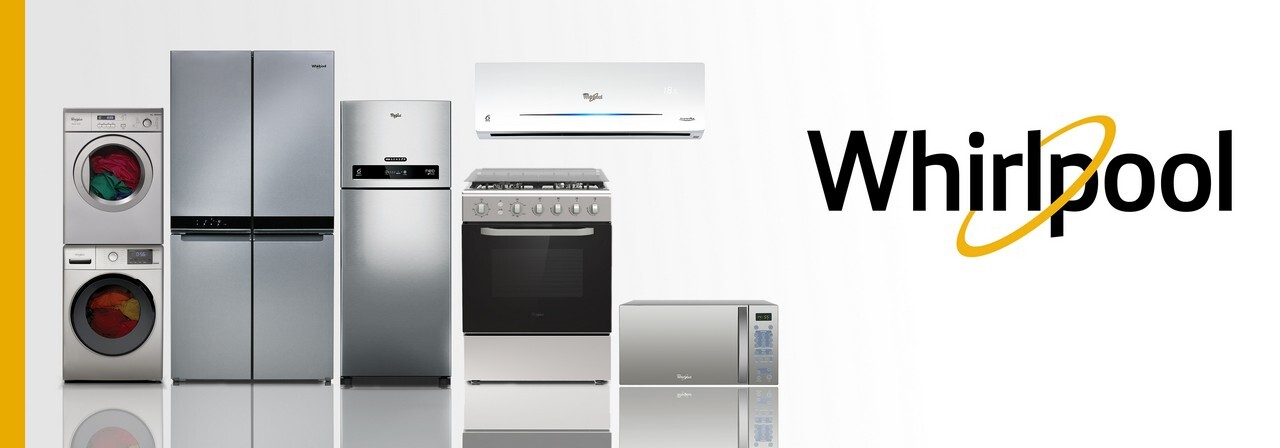
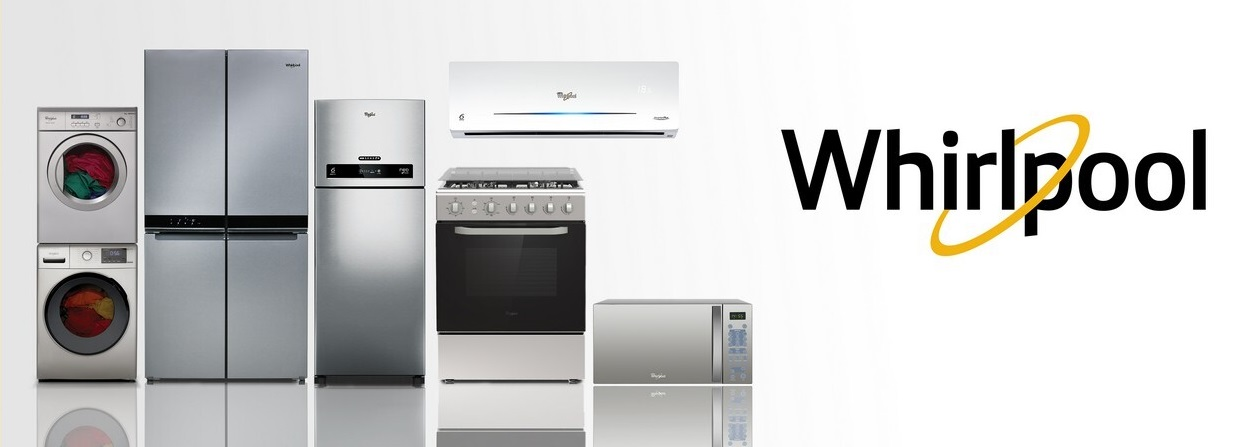
Subiendo cambios

diff --git a/public/css/main.css b/public/css/main.css
@@ -5,16 +5,23 @@
     justify-content: center;    /* Alinear al centro sobre el eje X */
     flex-direction: column;
     align-items: center;
-    background:url(../img/slider/whirlpool-Banner.jpg) no-repeat;
+    /* background:url(../img/slider/whirlpool-Banner.jpg) no-repeat; */
     background-size: cover;
     background-position: center;
 }
 
 .home-slider .slider{
+    display: flex;
     width: 1100px;
     height: 240px;
     border: 2px solid var(--main-color);
     background: var(--bg-gray);
+}
+
+.home-slider .slider img {
+    transform: translateX(30%);
+    width: 665px;
+    height: 236px;
 }
 
 .home-slider .pay-system{
@@ -70,7 +77,7 @@
     justify-items: center;
     margin-top: 7rem;
     grid-template-columns: repeat(4, 1fr);
-    column-gap: 10px;
+    column-gap: 7px;
 }
 
 .card{
@@ -81,7 +88,7 @@
     margin-bottom: 30px;
     border-radius: 15px;
     height: 440px;
-    width: 300px;
+    width: 295px;
 }
 
 .card h4 {
@@ -145,7 +152,7 @@
 
 .info-container button{
     background-color: #3a4a72;
-    padding: 8px 15px;
+    padding: 4px 20px;
     border-radius: 50px;
     width: 35%;
     border: solid 1px #3a4a72;
@@ -155,27 +162,26 @@
     background-color: #232a3f;
 }
 
-@media screen and (max-width:1279px) and (min-width: 745px) {
+@media screen and (max-width:1320px) and (min-width: 990px) {
     .article{
         grid-template-columns: repeat(3, 1fr);
     }
+    .card:nth-child(4) {
+        display: none;
+    }
 }
 
-@media screen and (max-width:744px) and (min-width:415px) {
+@media screen and (max-width:989px) and (min-width:657px) {
     .article{
         grid-template-columns: repeat(2, 1fr);
     }
 }
 
-@media screen and (max-width:414px) {
+@media screen and (max-width:660px) {
     .article{
         grid-template-columns: repeat(1, 1fr);
     }
 }
-
-
-
-
 
 /* Main Home - Slider Cards end */
 

diff --git a/views/productDetail.html b/views/productDetail.html
@@ -45,20 +45,20 @@
 <body>
     <section class="dProducto">
         <section class="imagen-grande">
-            <img src="/public/img/imagenes/img-1.webp" width="100%" class="imagen-pequeña" alt="">
+            <img src="/public/img/products/img-1.webp" width="100%" class="imagen-pequeña" alt="">
 
             <div class="grupo-imagenes-pequeñas">
                 <div class="columna-imagenes-pequeñas">
-                    <img src="/public/img/imagenes/img-1.webp" width="100%" class="imagen-pequeña" alt="">
+                    <img src="/public/img/products/img-1.webp" width="100%" class="imagen-pequeña" alt="">
                 </div>
                 <div class="columna-imagenes-pequeñas">
-                    <img src="/public/img/imagenes/img-2.jpg" width="100%" class="imagen-pequeña" alt="">
+                    <img src="/public/img/products/img-2.jpg" width="100%" class="imagen-pequeña" alt="">
                 </div>
                 <div class="columna-imagenes-pequeñas">
-                    <img src="/public/img/imagenes/img-3.jpg" width="100%" class="imagen-pequeña" alt="">
+                    <img src="/public/img/products/img-3.jpg" width="100%" class="imagen-pequeña" alt="">
                 </div>
                 <div class="columna-imagenes-pequeñas">
-                    <img src="/public/img/imagenes/img-4.png" width="100%" class="imagen-pequeña" alt="">
+                    <img src="/public/img/products/img-4.png" width="100%" class="imagen-pequeña" alt="">
                 </div>
             </div>
         </section>

diff --git a/public/css/productDetail.css b/public/css/productDetail.css
@@ -1,5 +1,4 @@
-/* body {
-    margin-top: 7rem;
+body {
     padding-left: 35px;
     padding-right: 35px;
     box-sizing: border-box;
@@ -17,8 +16,7 @@
 }
 
 .imagen-grande {
-    width: 40%;
-    margin-right: 50px;
+    width: 50%;
 }
 
 .grupo-imagenes-pequeñas {
@@ -174,8 +172,8 @@
 
 @media screen and (min-width:745px) and (max-width:1024px){
     .imagen-grande {
-        width: 80%;
-        margin-right: 50px;
+        width: 100%;
+        padding-top: 5%;
     }
     
     .especificacion-producto {
@@ -213,9 +211,13 @@
 }
 
 @media screen and (min-width:1025px) and (max-width:1440px) {
+    .imagen-grande {
+        width: 50%;
+    }
+    
     .especificacion-producto {
         width: 50%;
-        padding-top: 10%;
+        padding-top: 13%;
         text-align: center;
     }
 
@@ -239,4 +241,4 @@
     .especificacion-producto .boton-carrito:active {
         background-color: #232a3f;
     }
-} */
+}

diff --git a/views/home.html b/views/home.html
@@ -54,7 +54,7 @@
         <section class="home-slider" id="home-slider">
 
             <div class="slider">
-
+                <img src = "/public/img/slider/whirlpool-Banner.jpg" alt = "">
             </div>
 
             <div class="pay-system">

diff --git a/public/css/cart1.css b/public/css/cart1.css
@@ -1,4 +1,4 @@
-/* .contenedor-carteles {
+.contenedor-carteles {
     display: flex;
     flex-direction: column;
 }
@@ -219,4 +219,4 @@
     .contenedor-producto .extras label {
         font-size: 17px;
     }
-} */
+}

diff --git a/public/css/cart2.css b/public/css/cart2.css
@@ -1,4 +1,4 @@
-/* .contenedor-carteles2 {
+.contenedor-carteles2 {
     display: flex;
     flex-direction: column;
 }
@@ -284,4 +284,4 @@
         justify-content: center;
         color: #ed4b4b;
     }
-} */
+}

diff --git a/public/css/register.css b/public/css/register.css
@@ -1,4 +1,4 @@
-/* .registro main {
+.registro main {
     background-color: #3A4A72;
     width: 35%;
     margin: 0 auto;
@@ -59,4 +59,4 @@
   
   .link:hover {
     color: #e4a457;
-  } */
+  }

diff --git a/public/css/login.css b/public/css/login.css
@@ -1,4 +1,4 @@
-/* .login main {
+.login main {
     background-color: #3A4A72;
     width: 35%;
     margin: 0 auto;
@@ -59,4 +59,4 @@
   
   .link:hover {
     color: #e4a457;
-  } */
+  }
